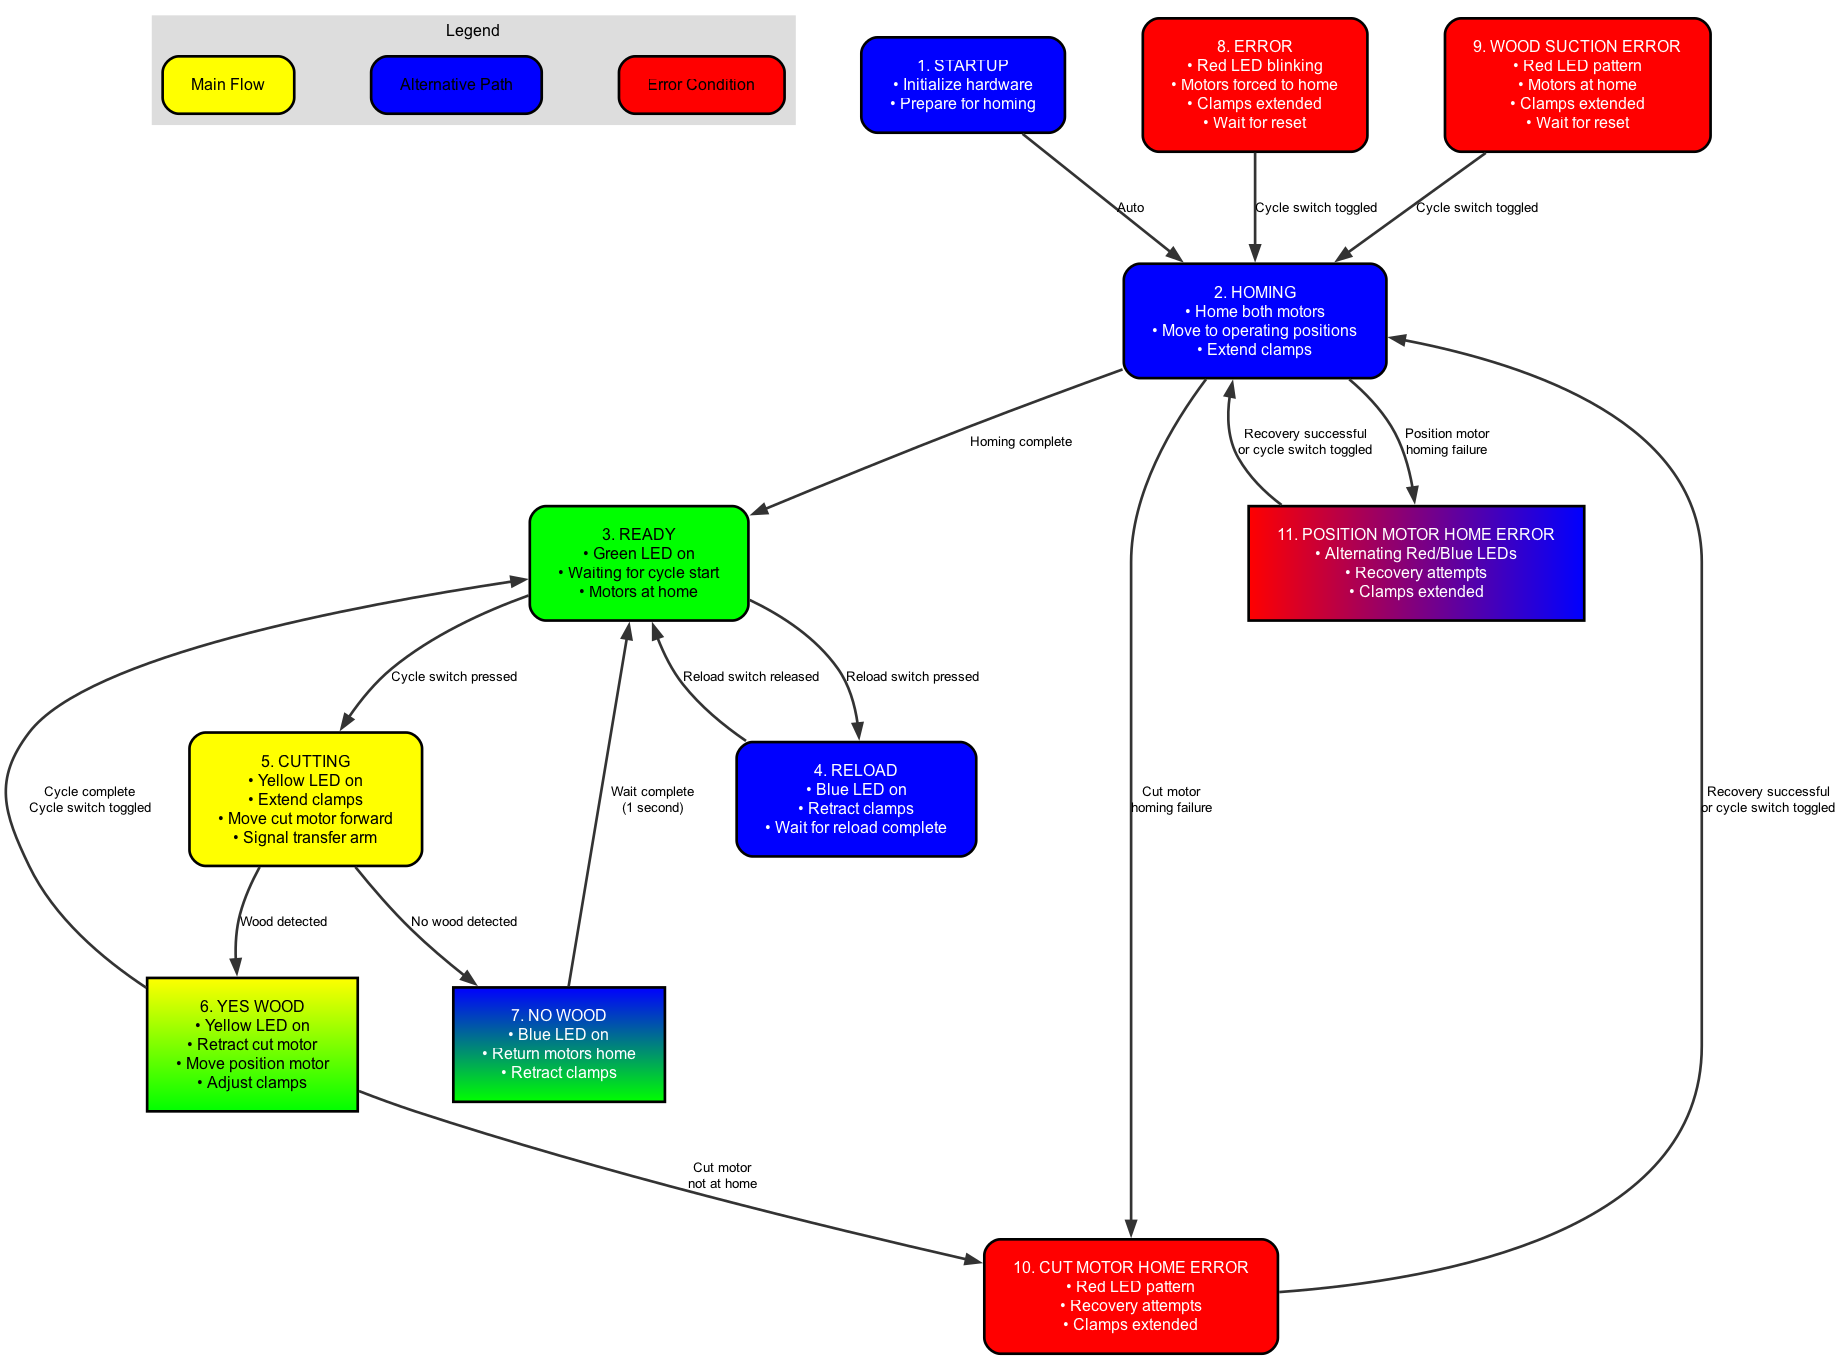
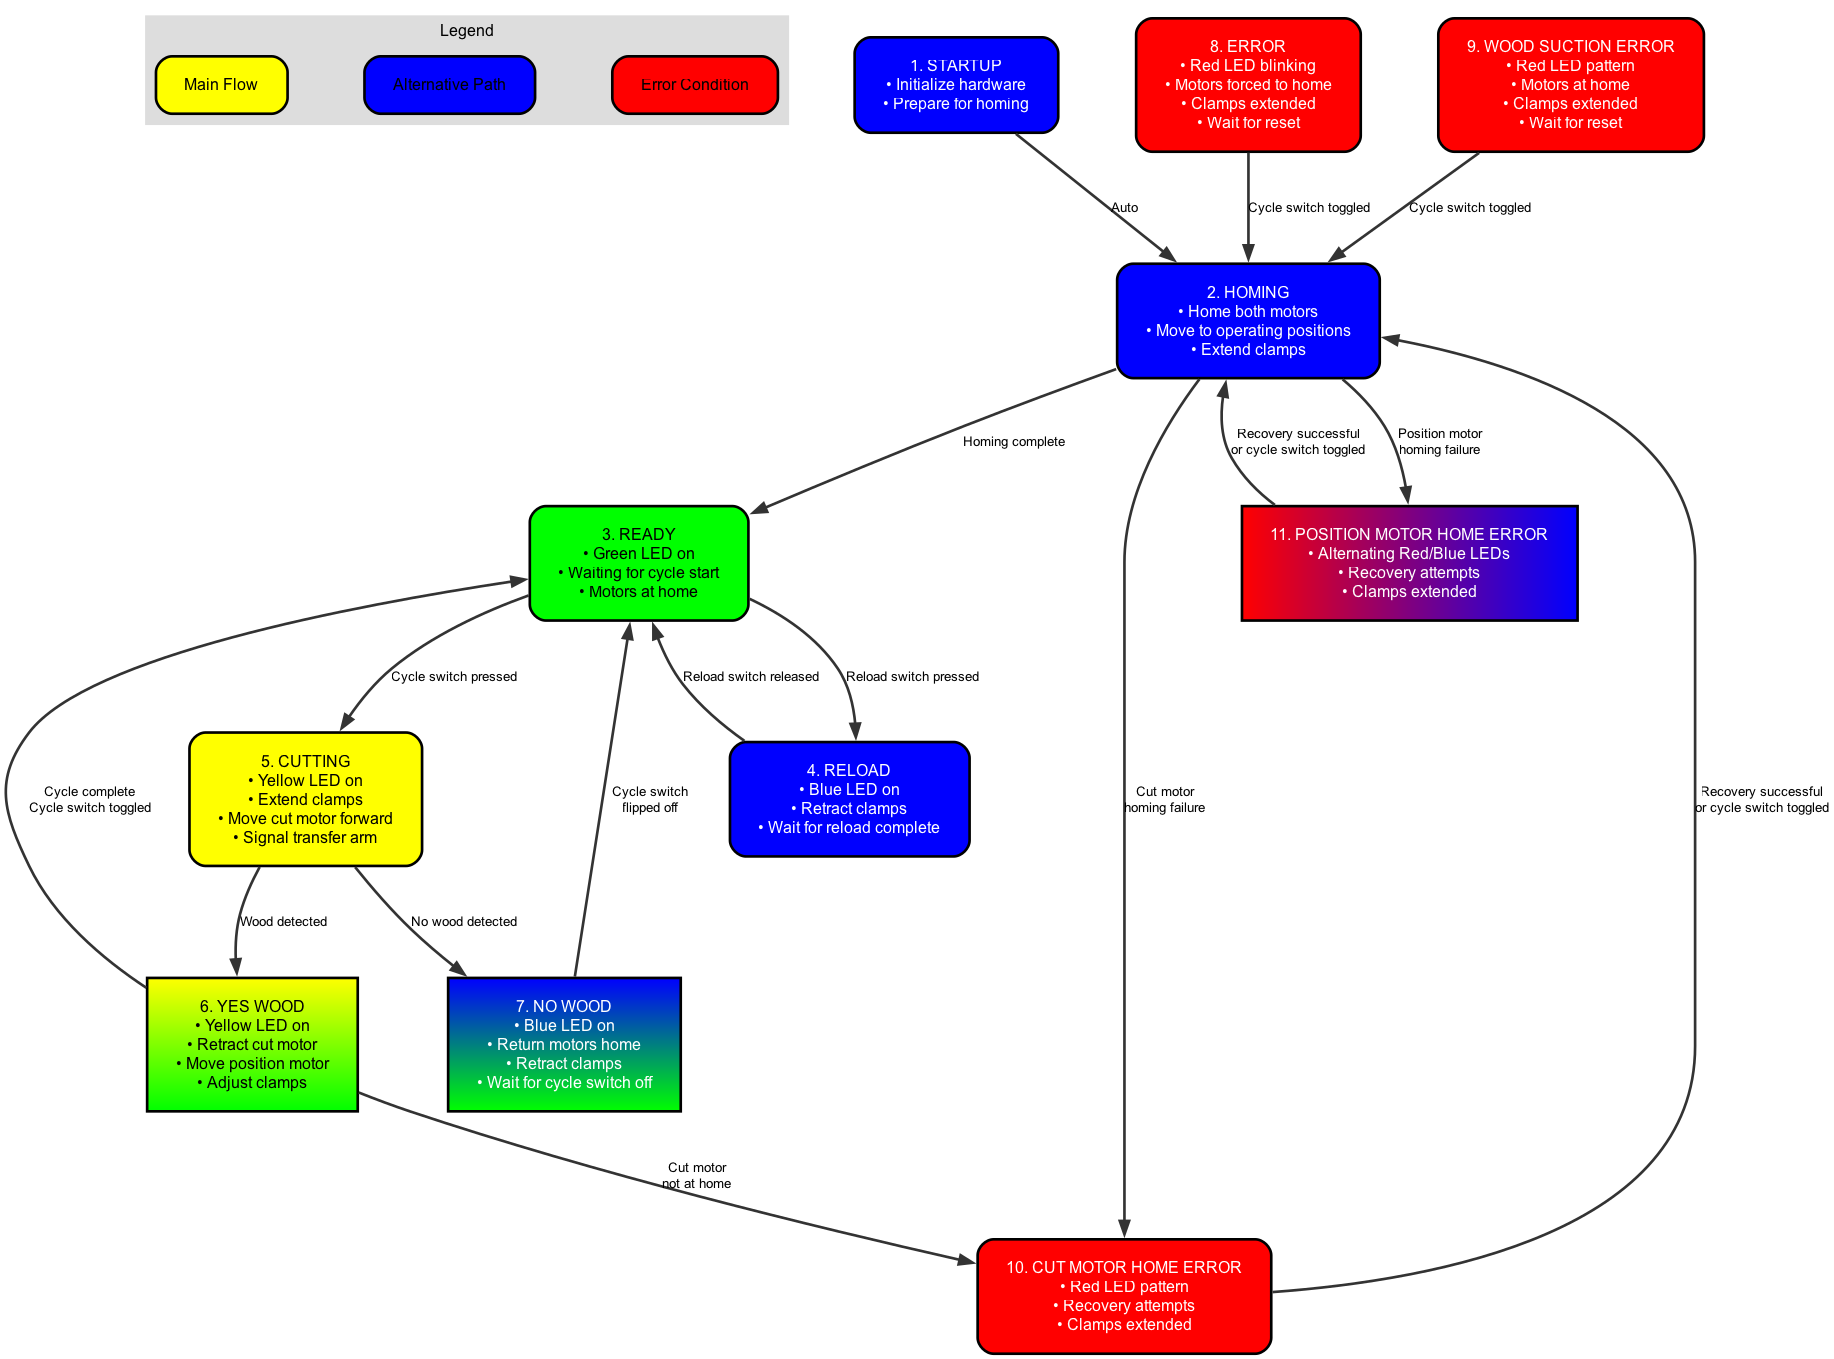
Updated NO WOOD state to transition to READY only when cycle switch is flipped off

diff --git a/src/operations/13_NoWood.cpp b/src/operations/13_NoWood.cpp
@@ -4,57 +4,78 @@
 
 // Global variables for this module
 static unsigned long noWoodWaitTime = 0;
+static bool prevCycleSwitchState = false;
 
 // Handle no wood state - indicates wood is not present after cutting
 void handleNoWoodState() {
   switch (subState) {
-    case 0: // Step 1: Release secure wood clamp and keep position clamp extended
-      retractWoodSecureClamp();
+    case 0: // Step 7B: Set LED Indicators (Turn ON blue LED, Turn OFF other LEDs)
+      // Show the NoWood indicator - only blue LED
+      setBlueLed(true);
+      setGreenLed(false);
+      setYellowLed(false);
+      setRedLed(false);
       subState = 1;
       break;
+
+    case 1: // Step 8B: Set cycle switch toggle flag
+      // Set the flag that requires cycle switch to be toggled
+      needCycleSwitchToggle = true;
+      prevCycleSwitchState = readCycleSwitch();
+      subState = 2;
+      break;
       
-    case 1: // Step 2: Return both motors home
+    case 2: // Step 9B: Retract secure wood clamp (keep position clamp extended)
+      retractWoodSecureClamp();
+      extendPositionClamp(); // Ensure position clamp stays extended
+      subState = 3;
+      break;
+      
+    case 3: // Step 10B: Return both motors home simultaneously
       // Set motors to return settings for faster return
       Motors_RETURN_settings();
       
-      // Move motors back to home position
+      // Move both motors back to home position simultaneously
       moveCutMotorToPosition(0); // Move cut motor backward to home
       movePositionMotorToPosition(0);
       
       // When both motors are at home position, proceed to next step
       if (isMotorInPosition(cutMotor, 0) && isMotorInPosition(positionMotor, 0)) {
-        subState = 2;
+        subState = 4;
       }
       break;
       
-    case 2: // Step 3: Release both clamps
+    case 4: // Step 11B: Release both clamps
       retractPositionClamp();
       retractWoodSecureClamp(); // Redundant but ensures it's retracted
-      subState = 3;
+      subState = 5;
       break;
       
-    case 3: // Step 4: Set flag for cycle switch toggle requirement and show indicator
-      // Set the flag that requires cycle switch to be toggled
-      needCycleSwitchToggle = true;
+    case 5: // Step 12B: Wait for cycle switch to be flipped off
+      // Check cycle switch state
+      bool currentCycleSwitchState = readCycleSwitch();
       
-      // Show the NoWood indicator
-      showNoWoodIndicator();
-      
-      // Wait for 1 second to ensure operator sees the indication
-      if (Wait(1000, &noWoodWaitTime)) {
+      // If cycle switch was on and is now off (toggled off)
+      if (prevCycleSwitchState == true && currentCycleSwitchState == false) {
         // Reset flags for next cutting cycle
         hasTransferArmBeenSignaled = false;
         hasSuctionBeenChecked = false;
+        needCycleSwitchToggle = false;
         
-        // Return to ready state instead of reload
+        // Return to ready state
         enterState(READY_STATE);
       }
+      
+      // Update previous state for next check
+      prevCycleSwitchState = currentCycleSwitchState;
       break;
   }
 }
 
-// Show no wood indicator (Green + Blue LEDs)
+// Show no wood indicator (Blue LED only)
 void showNoWoodIndicator() {
-  setGreenLed(true);
   setBlueLed(true);
+  setGreenLed(false);
+  setYellowLed(false);
+  setRedLed(false);
 } 
